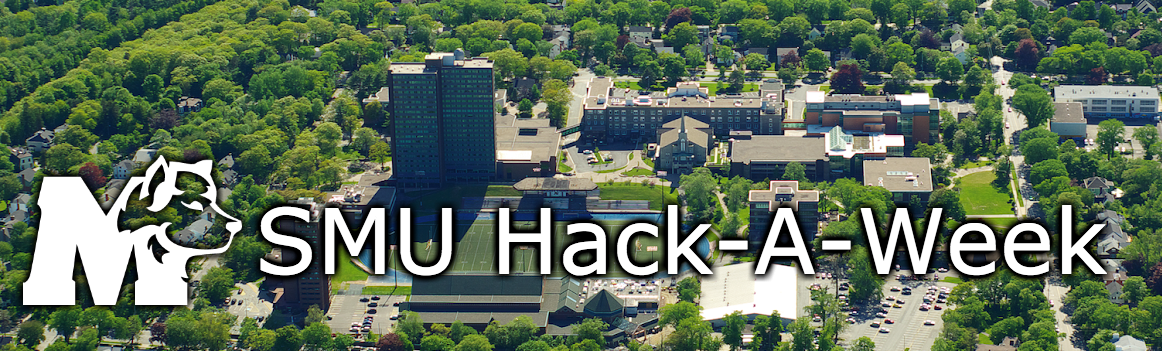
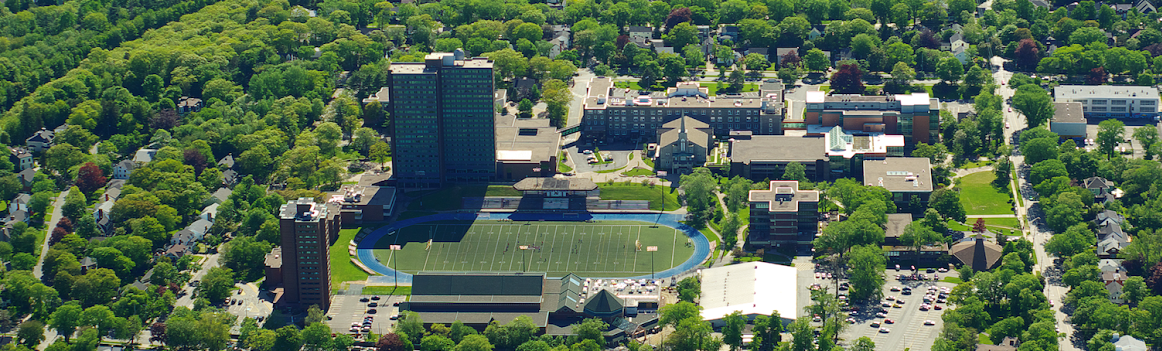
Update

Changed region(s): [[0.0, 0.4274, 0.9604, 0.8832]]

diff --git a/index.html b/index.html
@@ -14,20 +14,18 @@
     <!-- JS -->
     <script src="https://ajax.googleapis.com/ajax/libs/jquery/1.11.0/jquery.min.js"></script>
     <script src="js/bootstrap.min.js"></script>
-    <script type="text/javascript">
-      $(document).ready(function() {
-          $('.carousel').carousel({
-              interval: 3000,
-              cycle: true
-          });
-      });
-    </script>
   </head>
 
   <body>
     <!-- Header Background Image -->
     <div class="bg"></div>
-    <div class="jumbotron"></div>
+    <div class="jumbotron">
+      <div class="container">
+        <div class="top">
+          <h1 class="toph1"><img src="sponsors/smuwhite.png" id="smulogo" />SMU Hack-A-Week</h1>
+        </div>
+      </div>
+    </div>
     <!-- End Header Background Image -->
 
     <!-- Main Page -->

diff --git a/css/style.css b/css/style.css
@@ -54,3 +54,17 @@ strong{
 .lead {
   font-size: 3.5em;
 }
+
+.top {
+  margin: 0% 0% 0% 22%;
+  -webkit-text-fill-color: #fff;
+  -webkit-text-stroke-color: #000;
+  -webkit-text-stroke-width: 2px;
+  text-fill-color: #fff;
+  text-stroke-color: #000;
+  text-stroke-width: 2px;
+}
+
+.toph1 {
+  font-weight: bold;
+}
